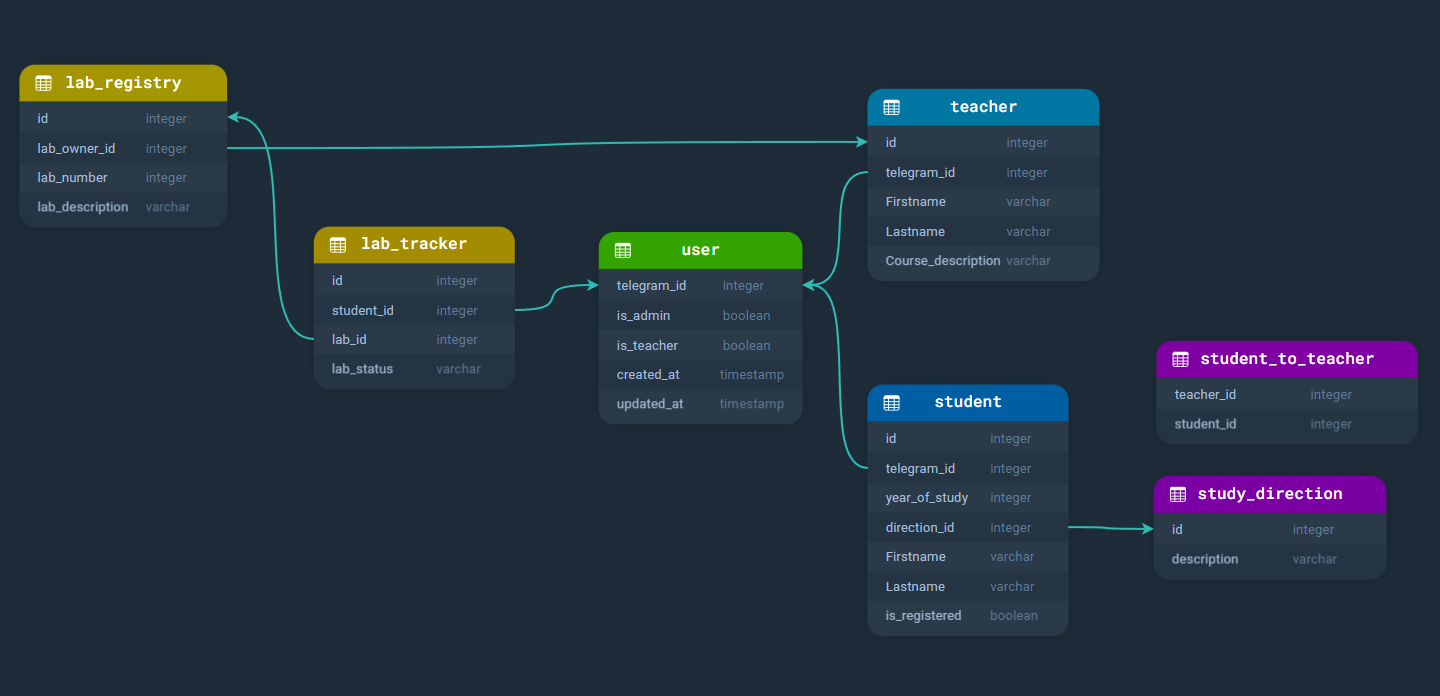
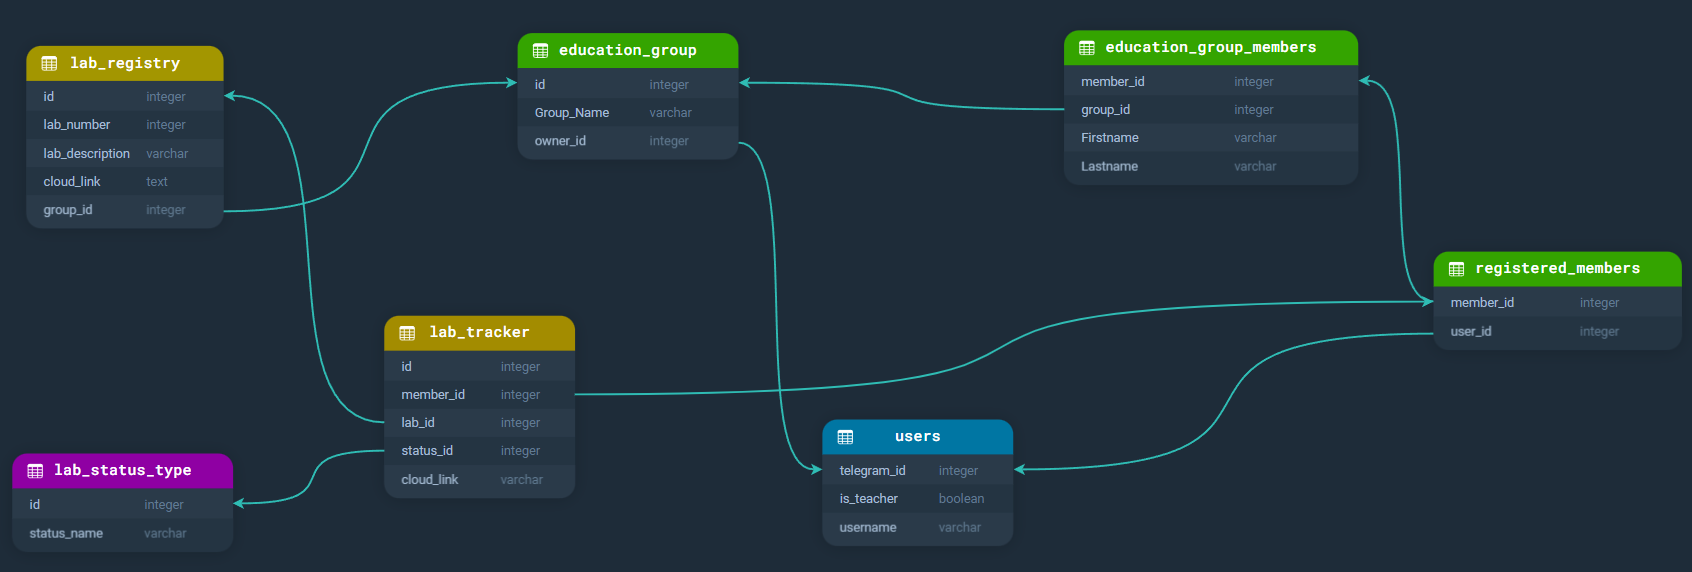
feat: :sparkles: started work on database requests

diff --git a/database/selector.py b/database/selector.py
@@ -1,0 +1,142 @@
+from .database_connector import DatabaseConnector
+from loguru import logger
+from typing import Any
+
+
+class Selector(DatabaseConnector):
+    def __init__(self) -> None:
+        super().__init__()
+        logger.debug("Selector for database object was initialized")
+
+    async def select_one_row_from_table(self, table_name: str, column_name: str, value: str) -> Any:
+        """
+        Selects one row from table by column name and value\n
+        USE IT ONLY IF THIS CLASS HAS NO METHOD FOR YOUR QUERY\n
+
+        Args:
+            table_name (str): name of table to select from
+            column_name (str): name of column to select from
+            value (str): value of column to select from
+
+        Returns:
+            Any: result of query execution
+        """
+        query = f"""--sql
+        SELECT * FROM {table_name}
+        WHERE {column_name} = '{value}';
+        """
+        result = await self._execute_query_with_returning_one_row(query)
+        if result is False:
+            logger.error(
+                f"Error while selecting from {table_name} with {column_name} = {value}")
+            return None
+        else:
+            logger.success(f"Selected from {table_name} successfully")
+            return result[0]
+
+    async def select_all_rows_from_table(self, table_name: str, column_name: str, value: str) -> Any:
+        """
+        Selects all rows from table by column name and value\n
+        USE IT ONLY IF THIS CLASS HAS NO METHOD FOR YOUR QUERY\n
+
+        Args:
+            table_name (str): name of table to select from
+            column_name (str): name of column to select from
+            value (str): value of column to select from
+
+        Returns:
+            Any: result of query execution
+        """
+        query = f"""--sql
+        SELECT * FROM {table_name}
+        WHERE {column_name} = '{value}';
+        """
+        result = await self._execute_query(query)
+        if result is False:
+            logger.error(
+                f"Error while selecting from {table_name} with {column_name} = {value}")
+            return None
+        else:
+            logger.success(f"Selected from {table_name} successfully")
+            return result
+
+    async def check_is_user_exist(self, user_id: int) -> bool:
+        """
+        Check if user exists in database in table users\n
+        """
+        query = f"""--sql
+        SELECT EXISTS(SELECT 1 FROM users WHERE telegram_id = {user_id});
+        """
+        result = await self._execute_query_with_returning_one_row(query)
+        if result is False:
+            logger.error(
+                f"Error while checking if user exists; user_id = {user_id}")
+            return False
+        else:
+            logger.success(
+                f"Checked if user exists successfully; user_id = {user_id}")
+            return result[0]
+
+    async def select_group_id_by_group_name(self, group_name: str) -> int | None:
+        query = f"""--sql
+        SELECT group_id FROM education_group
+        WHERE group_name = '{group_name}';
+        """
+        result = await self._execute_query_with_returning_one_row(query)
+        if result is False:
+            logger.error(
+                f"Error while selecting from education_groups with group_name = {group_name}")
+            return None
+        else:
+            logger.success(
+                f"Selected group_id from education_groups successfully; group_name = {group_name} with id = {result[0]}")
+            return result[0]
+
+    async def select_group_name_by_group_id(self, group_id: int) -> str | None:
+        query = f"""--sql
+        SELECT group_name FROM education_group
+        WHERE group_id = {group_id};
+        """
+        result = await self._execute_query_with_returning_one_row(query)
+        if result is False:
+            logger.error(
+                f"Error while selecting from education_groups with group_id = {group_id}")
+            return None
+        else:
+            logger.success(
+                f"Selected group_name from education_groups successfully; group_id = {group_id} with name = {result[0]}")
+            return result[0]
+
+    async def select_group_owner_id_by_group_id(self, group_id: int) -> int | None:
+        query = f"""--sql
+        SELECT owner_id FROM education_group
+        WHERE group_id = {group_id};
+        """
+        result = await self._execute_query_with_returning_one_row(query)
+        if result is False:
+            logger.error(
+                f"Error while selecting from education_groups with group_id = {group_id}")
+            return None
+        else:
+            logger.success(
+                f"Selected group_owner_id from education_groups successfully; group_id = {group_id} with id = {result[0]}")
+            return result[0]
+
+    async def check_is_user_teacher(self, user_id: int) -> bool:
+        """
+        Returns:
+            bool: bool value 'is_teacher' for user_id in table users
+        """
+        query = f"""--sql
+        SELECT is_teacher FROM users
+        WHERE telegram_id = {user_id};
+        """
+        result = await self._execute_query_with_returning_one_row(query)
+        if result is False:
+            logger.error(
+                f"Error while checking if user is teacher; user_id = {user_id}")
+            return False
+        else:
+            logger.success(
+                f"Checked if user is teacher successfully; user_id = {user_id}")
+            return result[0]

diff --git a/database/inserter.py b/database/inserter.py
@@ -1,0 +1,92 @@
+from .database_connector import DatabaseConnector
+from loguru import logger
+
+
+class Inserter(DatabaseConnector):
+    def __init__(self) -> None:
+        super().__init__()
+        logger.debug("Inserter for database object was initialized")
+
+    async def insert_row_into_table(self, table_name: str, *args) -> bool:
+        """
+        Inserts row into table\n
+        USE IT ONLY IF THIS CLASS HAS NO METHOD FOR YOUR QUERY\n
+
+        Args:
+            table_name (str): name of table to insert into
+            *args (tuple): values to insert
+
+        Returns:
+            bool: result of query execution
+        """
+        query = f"""--sql
+        INSERT INTO {table_name}
+        VALUES {args};
+        """
+        result = await self._execute_query(query)
+        if result is False:
+            logger.error(
+                f"Error while inserting into {table_name} with {args}")
+            return False
+        else:
+            logger.success(f"Inserted into {table_name} successfully")
+            return True
+
+    async def insert_new_education_group(self, group_name: str, owner_id: int) -> bool:
+        """Creates new education group in table 'education_groups'
+
+        Args:
+            group_name (str): name of new group, must be unique and less than 55 symbols
+            owner_id (int): telegram id of group owner, can be get from message.from_user.id
+
+        Returns:
+            bool: result of query execution
+        """
+        query = f"""--sql
+        INSERT INTO education_groups (group_name, owner_id)
+        VALUES ('{group_name}', {owner_id});
+        """
+        result = await self._execute_query(query)
+        if result is False:
+            logger.error(
+                f"Error while inserting into education_groups with {group_name}, {owner_id}")
+            return False
+        else:
+            logger.success(
+                f"Inserted into education_groups {group_name} with owner:{owner_id} successfully")
+            return True
+
+    async def insert_one_member_into_education_group(self, group_id: int, first_name: str, last_name: str) -> bool:
+        """Adds one member into group
+
+        Args:
+            group_id (int): id of group to add member
+            first_name (str): first name of member
+            last_name (str): last name of member
+
+        Returns:
+            bool: result of query execution
+        """
+
+        query = f"""--sql
+        INSERT INTO education_group_members (group_id, first_name, last_name)
+        VALUES ({group_id}, '{first_name}', '{last_name}');
+        """
+        result = await self._execute_query(query)
+        if result is False:
+            logger.error(
+                f"Error while inserting into members with {group_id}, {first_name}, {last_name}")
+            return False
+        else:
+            logger.success(
+                f"Inserted into members {group_id}, {first_name}, {last_name} successfully")
+            return True
+
+    async def insert_many_members_into_education_group(self, group_id: int, members: list[tuple[str, str]]) -> bool:
+        """Adds many members into group
+
+        Args:
+            group_id (int): id of group to add members
+            members (list[tuple[str,str]]): list of tuples with first and last names of members
+        """
+        ...

diff --git a/database/database_connector.py b/database/database_connector.py
@@ -15,7 +15,7 @@ class DatabaseConnector(Config):
         return conn
 
     async def _execute_query(self, query: str, *args) -> list[asyncpg.Record] | bool:
-        """Executes query and returns result or None if error occured
+        """Executes query and returns result or None if error occurred
 
         Args:
             query (str): SQL query to execute
@@ -38,8 +38,8 @@ class DatabaseConnector(Config):
 
         return result
 
-    async def _execute_query_with_returning_one(self, query: str, *args) -> asyncpg.Record | bool:
-        """Executes query and returns first row of result or None if error occured
+    async def _execute_query_with_returning_one_row(self, query: str, *args) -> asyncpg.Record | bool:
+        """Executes query and returns first row of result or None if error occurred
 
         Args:
             query (str): SQL query to execute

diff --git a/database/creator.py b/database/creator.py
@@ -9,7 +9,7 @@ class Creator(DatabaseConnector):
 
     def __init__(self) -> None:
         super().__init__()
-        logger.info("Creator for database object was created")
+        logger.debug("Creator for database object was initialized")
 
     async def _create_table_users(self) -> None:
         query = """--sql
@@ -29,7 +29,7 @@ class Creator(DatabaseConnector):
         query = """--sql
         CREATE TABLE IF NOT EXISTS education_group (
             id SERIAL PRIMARY KEY,
-            group_name VARCHAR(55) NOT NULL,
+            group_name VARCHAR(55) NOT NULL UNIQUE,
             owner_id BIGINT NOT NULL REFERENCES users(telegram_id)
         );
         """

diff --git a/database/__init__.py b/database/__init__.py
@@ -1,5 +1,16 @@
 from loguru import logger
+from .inserter import Inserter
+from .selector import Selector
+from .updater import Updater
+from .deleter import Deleter
+
 try:
     from .creator import configure_database_tables
 except ImportError:
     logger.error("Error while importing creator.py")
+
+
+class DatabaseManager(Inserter, Selector, Updater, Deleter):
+    def __init__(self) -> None:
+        super().__init__()
+        logger.debug("Database manager object was initialized")

diff --git a/database/deleter.py b/database/deleter.py
@@ -1,0 +1,8 @@
+from .database_connector import DatabaseConnector
+from loguru import logger
+
+
+class Deleter(DatabaseConnector):
+    def __init__(self) -> None:
+        super().__init__()
+        logger.debug("Deleter for database object was initialized")

diff --git a/database/updater.py b/database/updater.py
@@ -1,0 +1,8 @@
+from .database_connector import DatabaseConnector
+from loguru import logger
+
+
+class Updater(DatabaseConnector):
+    def __init__(self) -> None:
+        super().__init__()
+        logger.debug("Updater for database object was initialized")
